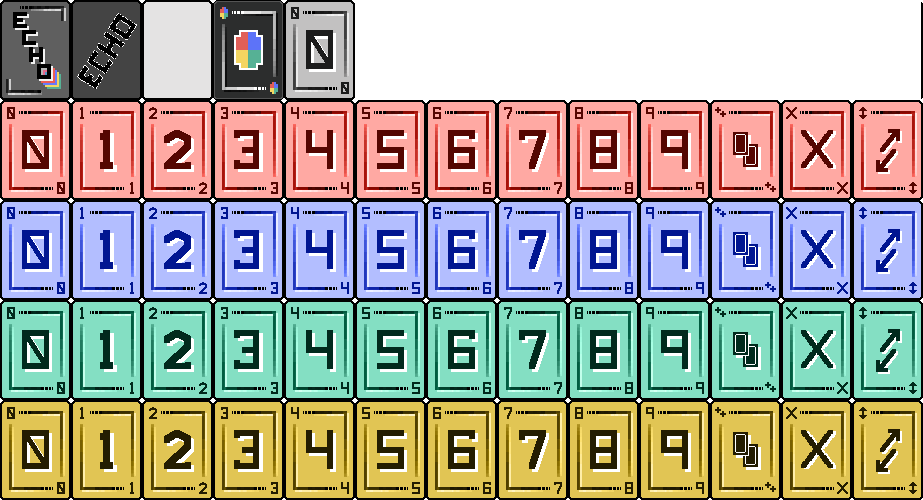
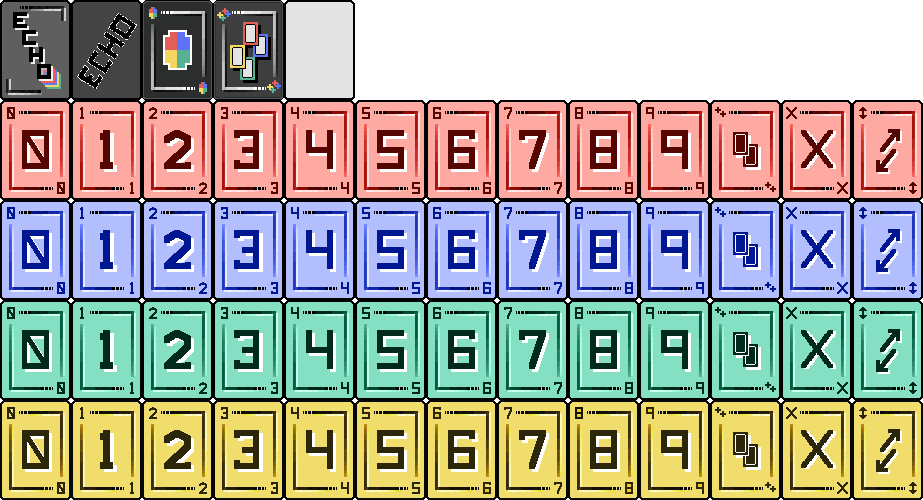
Fixed issue with card to sprite mapping for special cards ; Refactored moveTo method with new Transform class

Changed region(s): [[0.1517, 0.0, 0.3944, 0.21]]

diff --git a/src/components/actor.js b/src/components/actor.js
@@ -1,4 +1,5 @@
 import { interpolationFuncs } from "../utils.js";
+import { Transform } from "../display.js";
 
 export class Actor {
   constructor(params = {}) {
@@ -10,13 +11,7 @@ export class Actor {
     this.pos = pos;
     this.vel = vel;
     this.img = img;
-    this.moveStruct = {
-      startPos: null,
-      destination: null,
-      startTime: null,
-      duration: null,
-      interpolMethod: null,
-    };
+    this.transform = new Transform();
   }
   getPosition() {
     return this.pos;
@@ -30,45 +25,10 @@ export class Actor {
   setVelocity(vel) {
     this.vel = { vx: vel.vx, vy: vel.vy, omega: vel.omega };
   }
-  setMove(dest, dur, interpol) {
-    this.moveStruct.startTime = performance.now();
-    this.moveStruct.startPos = this.getPosition();
-    this.moveStruct.destination = { x: dest.x, y: dest.y, theta: dest.theta };
-    this.moveStruct.duration = dur;
-    this.moveStruct.interpolMethod = interpol;
-  }
-  resetMove() {
-    for (let prop in this.moveStruct) {
-      if (this.moveStruct.hasOwnProperty(prop)) {
-        this.moveStruct[prop] = null;
-      }
-    }
-  }
   update() {
-    if (this.moveStruct.destination) {
-      const elapsedTime =
-        (performance.now() - this.moveStruct.startTime) / 1000;
-      let progress = elapsedTime / this.moveStruct.duration;
-      if (progress >= 1) {
-        this.setPosition(this.moveStruct.destination);
-        this.setVelocity({ vx: 0, vy: 0, omega: 0 });
-        this.resetMove();
-      } else {
-        progress = this.moveStruct.interpolMethod(progress);
-        let [x, y, theta] = [
-          this.moveStruct.startPos.x +
-            (this.moveStruct.destination.x - this.moveStruct.startPos.x) *
-              progress,
-          this.moveStruct.startPos.y +
-            (this.moveStruct.destination.y - this.moveStruct.startPos.y) *
-              progress,
-          this.moveStruct.startPos.theta +
-            (this.moveStruct.destination.theta -
-              this.moveStruct.startPos.theta) *
-              progress,
-        ];
-        this.setPosition({ x, y, theta });
-      }
+    if (this.transform.dest) {
+      this.transform.updateCurrent();
+      this.setPosition(this.transform.current);
     } else {
       this.setPosition({
         x: this.pos.x + this.vel.vx,
@@ -82,6 +42,11 @@ export class Actor {
     if (!interpolMethod) {
       throw new Error(`Unknown interpolation method: ${interpolation}`);
     }
-    this.setMove(destination, duration, interpolMethod);
+    this.transform.setMove(
+      this.getPosition(),
+      destination,
+      duration,
+      interpolMethod
+    );
   }
 }

diff --git a/src/display.js b/src/display.js
@@ -1,9 +1,8 @@
 import { degToRads } from "./utils.js";
-import { interpolationFuncs } from "./utils.js";
 
 var CARD_COLORS = ["red", "blue", "green", "yellow"];
 var SPECIAL_CARD_NAMES = ["back1", "back2", "wild", "wild4"];
-var CARD_NAMES = [
+var CARD_SYMBOLS = [
   "0",
   "1",
   "2",
@@ -14,9 +13,9 @@ var CARD_NAMES = [
   "7",
   "8",
   "9",
-  "draw2",
-  "skip",
-  "reverse",
+  "+2",
+  "X",
+  "<->",
 ];
 
 var SPRITE_MAP;
@@ -49,7 +48,7 @@ export async function loadSpriteBoard(spriteBoardImgPath, numRows, numCols) {
       // Adds the rest of the sprites to the map
       for (let i = 1; i < numRows; i++) {
         for (let j = 0; j < numCols; j++) {
-          let name = `${CARD_COLORS[i - 1]}${CARD_NAMES[j]}`;
+          let name = `${CARD_COLORS[i - 1]}${CARD_SYMBOLS[j]}`;
           let x = j * spriteWidth;
           let y = i * spriteHeight;
           spriteMap[name] = {
@@ -115,10 +114,53 @@ export function drawPlayer(Player) {
 }
 
 export function drawDeck(Deck) {
-  const ctx = getCanvasCtx();
+  //TODO: The deck's position is being set correctly, but the cards' positions are not being set to the same as the deck's position
+  drawCard(Deck.drawPile[0]);
 }
 
 export function clearCanvas(width = 500, height = 500) {
   const ctx = getCanvasCtx();
   ctx.clearRect(0, 0, width, height);
+}
+
+export class Transform {
+  constructor() {
+    this.start = null;
+    this.current = null;
+    this.dest = null;
+    this.startTime = null;
+    this.duration = null;
+    this.interpolMethod = null;
+  }
+  setMove(start, dest, dur, interpol) {
+    this.startTime = performance.now();
+    this.startPos = this.current = start;
+    this.dest = { x: dest.x, y: dest.y, theta: dest.theta };
+    this.duration = dur;
+    this.interpolMethod = interpol;
+  }
+  updateCurrent() {
+    const elapsedTime = (performance.now() - this.startTime) / 1000;
+    let progress = elapsedTime / this.duration;
+    if (progress >= 1) {
+      this.current = this.dest;
+      this.resetMove();
+    } else {
+      progress = this.interpolMethod(progress);
+      let [x, y, theta] = [
+        this.startPos.x + (this.dest.x - this.startPos.x) * progress,
+        this.startPos.y + (this.dest.y - this.startPos.y) * progress,
+        this.startPos.theta +
+          (this.dest.theta - this.startPos.theta) * progress,
+      ];
+      this.current = { x, y, theta };
+    }
+  }
+  resetMove() {
+    this.start = null;
+    this.dest = null;
+    this.startTime = null;
+    this.duration = null;
+    this.interpolMethod = null;
+  }
 }

diff --git a/src/components/deck.js b/src/components/deck.js
@@ -5,8 +5,8 @@ import { drawDeck } from "../display.js";
 var colors = ["red", "yellow", "blue", "green"];
 
 export class Deck extends Actor {
-  constructor() {
-    super();
+  constructor(pos) {
+    super(pos);
     this.drawPile = [];
     this.discardPile = [];
     this.createDeck();
@@ -15,17 +15,21 @@ export class Deck extends Actor {
     // for each color...
     for (let i = 0; i < 4; i++) {
       // Add one zero card
-      this.drawPile.push(new Card("number", colors[i], "0"));
+      this.drawPile.push(new Card("number", colors[i], "0", this.pos));
       for (var j = 1; j <= 9; j++) {
         // Add two version of the 1-9
-        this.drawPile.push(new Card("number", colors[i], j.toString()));
-        this.drawPile.push(new Card("number", colors[i], j.toString()));
+        this.drawPile.push(
+          new Card("number", colors[i], j.toString(), this.pos)
+        );
+        this.drawPile.push(
+          new Card("number", colors[i], j.toString(), this.pos)
+        );
       }
       // Add the special cards
       for (j = 1; j <= 2; j++) {
-        this.drawPile.push(new Card("reverse", colors[i], "<->"));
-        this.drawPile.push(new Card("skip", colors[i], "X"));
-        this.drawPile.push(new Card("draw2", colors[i], "+2"));
+        this.drawPile.push(new Card("reverse", colors[i], "<->", this.pos));
+        this.drawPile.push(new Card("skip", colors[i], "X", this.pos));
+        this.drawPile.push(new Card("draw2", colors[i], "+2", this.pos));
       }
     }
     // Add the wilds

diff --git a/src/components/game.js b/src/components/game.js
@@ -9,7 +9,7 @@ export class Game {
     this.actors = [];
     this.echo = new Echo(); //create a new game of Echo
     this.initActors(this.echo);
-    console.log(this.actors);
+    //console.log(this.actors); // for debugging
   }
 
   run() {
@@ -43,8 +43,9 @@ export class Game {
     }, 1000 / FPS);
   }
   initActors(echoGame) {
-    this.actors.push(echoGame.deck.drawPile[0]); // just push one card for now
-    // this.actors.push(...echoGame.deck);
+    // this.actors.push(echoGame.deck.drawPile[0]); // just push one card for now
+    this.actors.push(echoGame.deck);
+    //this.actors.push(...echoGame.deck.discardPile);
     // for (let i = 0; i < echoGame.players.length; i++) {
     //   const currentPlayer = echoGame.players[i];
     //   this.actors.push(currentPlayer);

diff --git a/src/components/card.js b/src/components/card.js
@@ -2,8 +2,8 @@ import { Actor } from "./actor.js";
 import { drawCard } from "../display.js";
 
 export class Card extends Actor {
-  constructor(type, color, symbol) {
-    super();
+  constructor(type, color, symbol, pos) {
+    super(pos);
     this.type = type;
     this.color = color;
     this.symbol = symbol;

diff --git a/src/components/player.js b/src/components/player.js
@@ -19,7 +19,4 @@ export class Player extends Actor {
   draw() {
     drawPlayer(this);
   }
-  update() {
-    //TODO
-  }
 }

diff --git a/src/components/echo.js b/src/components/echo.js
@@ -3,7 +3,7 @@ import { Player } from "./player.js";
 
 export class Echo {
   constructor(numPlayers = 2, handSize = 7, rounds = 1, trackScore = false) {
-    this.deck = new Deck();
+    this.deck = new Deck({ pos: { x: 172, y: 198, theta: 0 } });
     this.players = [];
     this.numPlayers = numPlayers;
     this.handSize = handSize;

diff --git a/src/index.js b/src/index.js
@@ -13,6 +13,5 @@ console.log("Sprite Board Loaded");
 
 console.log("Game Start...");
 const game = new Game();
-game.echo.deck.drawPile[0].faceUp = false;
 window.game = game; // for debugging
 game.run();